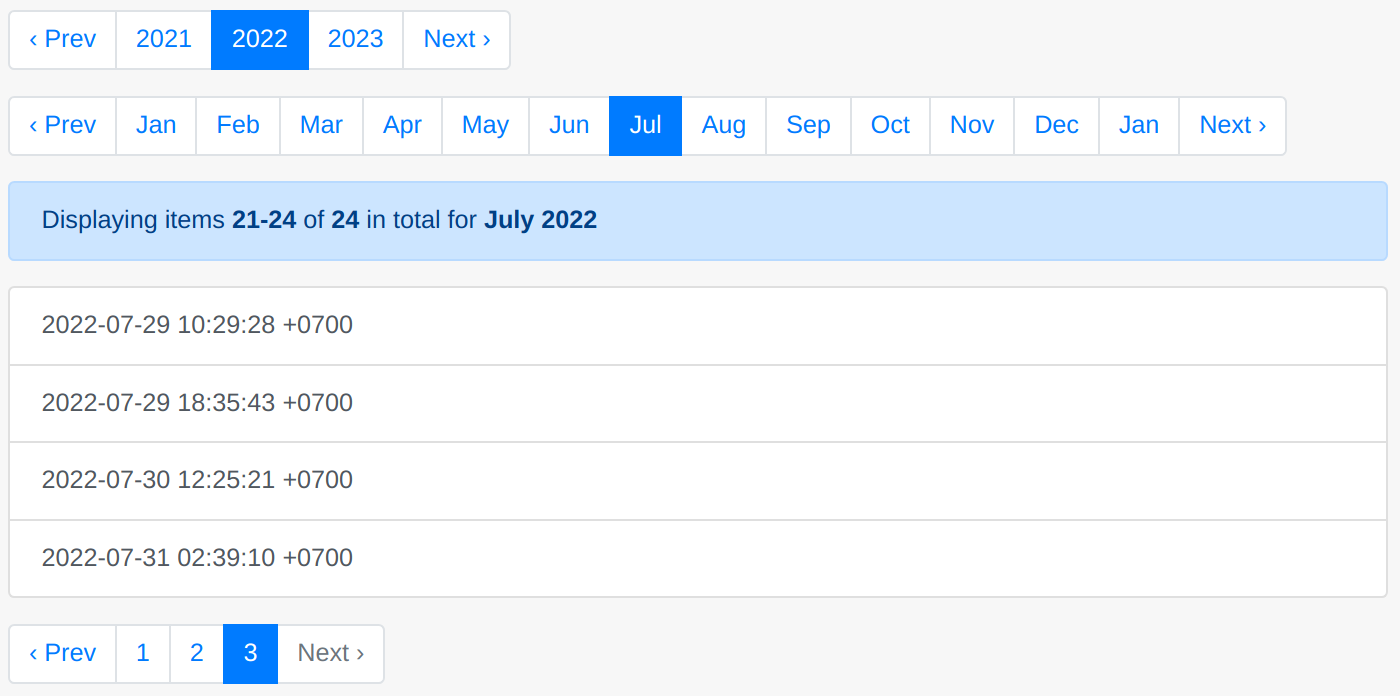
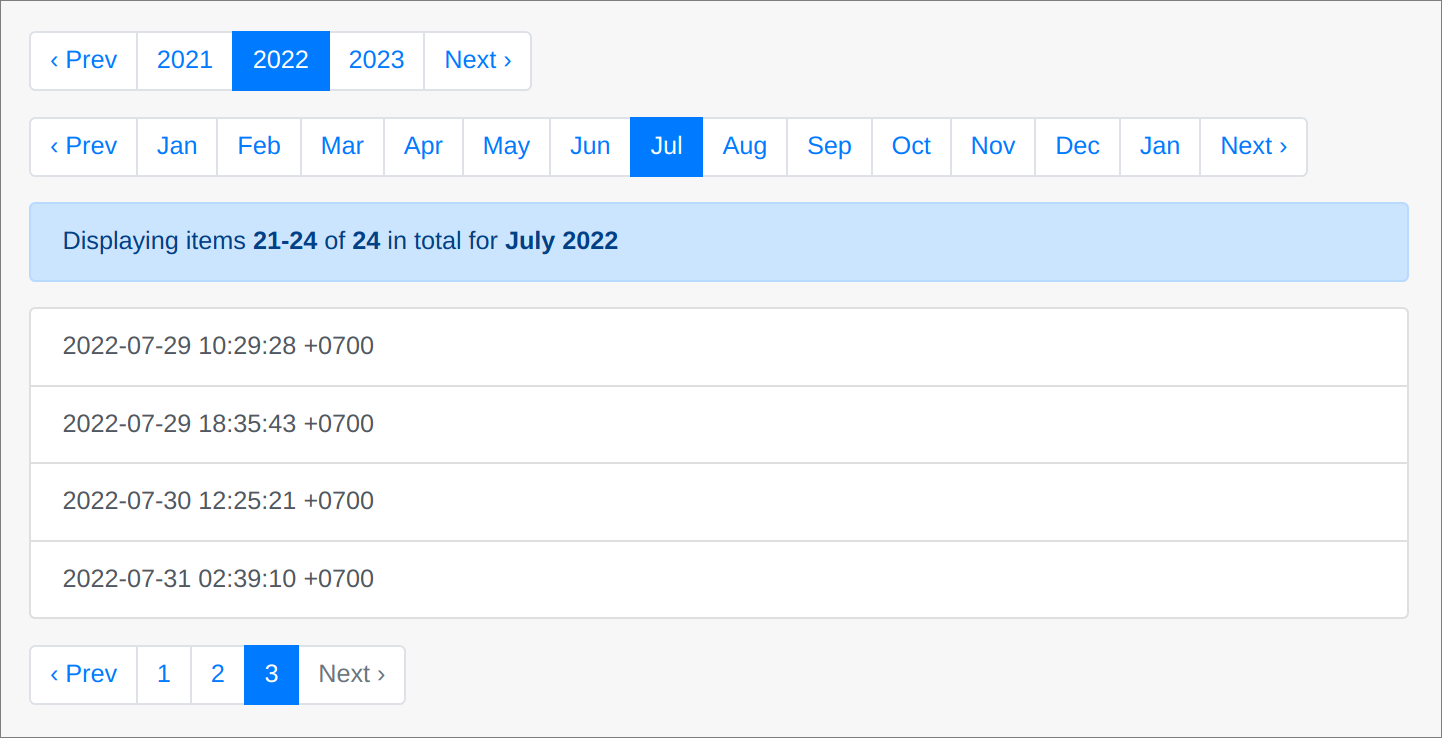
Add faster script to mask screeshots and style adjustments

diff --git a/docs/_includes/head.html b/docs/_includes/head.html
@@ -63,3 +63,23 @@
     'Pagy AI uses the latest data in the documentation to answer your questions.'
   );
 </script>
+<style>
+  .raised {
+    padding: .5em !important;
+    margin: .5em auto;
+    display: table;
+    width: fit-content;
+    box-shadow: 5px 5px 10px 0px rgba(0,0,0,0.2);
+    border: 1px solid rgba(200, 200, 200, 0.1);
+    background-color: rgba(200, 200, 200, 0.04);
+  }
+  .raised hr {
+    margin: .5em;
+  }
+  .raised p, .raised figcaption.caption {
+    display: none !important;
+  }
+  .raised figure.content-center {
+    margin-bottom: 0 !important;
+  }
+</style>

diff --git a/docs/resources/stylesheet.md b/docs/resources/stylesheet.md
@@ -7,13 +7,13 @@ image: ""
 
 # 
 
-## Stylesheet
+## Pagy Stylesheet
 
 ---
 
-![Pagy Style](../assets/images/pagy-style.png){width=300}
-
-## Overview
+![](../assets/images/series_nav.png){width=288}
+![](../assets/images/input_nav_js.png){width=204}
+![](../assets/images/limit_tag_js.png){width=202}
 
 Pagy includes a few stylesheet files that you can download, link, or copy, and integrate with your app.
 
@@ -22,7 +22,7 @@ Pagy includes a few stylesheet files that you can download, link, or copy, and i
 You don't need any stylesheets if you use nav tag with `:bootstrap` or `:bulma` styles.
 !!!
 
-### HTML Structure of Nav Bars
+#### HTML Structure of Nav Bars
 
 To ensure a minimalistic valid output, complete with all the ARIA attributes, pagy outputs a single line with the minimum number of tags
 and class attributes required to identify all the parts of the nav bars:
@@ -39,6 +39,8 @@ and class attributes required to identify all the parts of the nav bars:
 - You can target the previous and next links by using `pagy a:first-child` and `pagy a:last-child` pseudo classes
 
 !!!
+
+#### Files
 
 !!!success
 

diff --git a/docs/toolbox/methods/series_nav_js.md b/docs/toolbox/methods/series_nav_js.md
@@ -15,17 +15,25 @@ categories:
 
 ---
 
-![](../../assets/images/series_nav_js-7.png){width=288}
-![](../../assets/images/series_nav_js-9.png){width=358}
+:::raised
 ![](../../assets/images/series_nav_js-11.png){width=428}
+:::
+
+:::raised
+![](../../assets/images/series_nav_js-9.png){width=358}
+:::
+
+:::raised
+![](../../assets/images/series_nav_js-7.png){width=288}
+:::
+<br/>
 
 [!button corners="pill" variant="success" text=":icon-play: Try it now!"](../../sandbox/playground#3-demo-app)
 
 `series_nav_js` functions similarly to a [series_nav](series_nav.md), with the following added features:
 
-1. Enables client-side rendering.
-2. Optional responsiveness: dynamically fills the container width.
-3. Improves performance and optimizes resource usage (see [Maximizing Performance](../../guides/how-to#maximize-performance)).
+1. Optional responsiveness: Dynamically fills the container width.
+2. Improves performance and optimizes resource usage (see [Maximizing Performance](../../guides/how-to#maximize-performance)).
 
 !!!warning It works with all paginators but `:keyset`
 !!!

diff --git a/README.md b/README.md
@@ -20,6 +20,10 @@ _Agnostic pagination in plain ruby_
 
 <!-- whats_new_start -->
 
+<a href="https://ddnexus.github.io/pagy/sandbox/playground/#3-demo-app">
+  <img src="https://github.com/ddnexus/pagy/raw/dev/assets/images/try-it.svg" width="130">
+</a><br/>
+
 ### <span style="font-size: .65em; vertical-align: middle">💚</span> Version 10
 
 #### A complete redesign of the legacy code.
@@ -124,7 +128,7 @@ Combines `time-range` and `offset` pagination.
 
 _(Available time units: year, quarter, month, week, and day)_
 
-<img src="assets/images/calendar-app.png" width="700"><br/>
+<img src="assets/images/calendar-app.png" width="721"><br/>
 
 ```ruby
 @calendar, @pagy, @records = pagy(:calendar, collection, year: {}, month: {}, offset: {})

diff --git a/docs/resources/javascript.md b/docs/resources/javascript.md
@@ -11,7 +11,7 @@ image: ""
 
 ---
 
-!!!warning The helpers and paginators named `*_js` require Pagy JavaScript support.
+!!!warning The helpers and paginators named `*_js` require JavaScript support.
 
 Simply add the appropriate file(s) and statements as outlined below.
 !!!
@@ -42,7 +42,7 @@ Depending on your app's architecture, you have a couple of options:
   ```
 - **Load it like any other JavaScript file or module you already use in your app**
 
-#### 3. Set up the `Pagy.init` Listener
+#### 3. Set up the `Pagy.init` listener
 
 The primary purpose of the JavaScript support is to utilize `Pagy.init` as an event listener attached to a suitable `window` event:
 

diff --git a/docs/toolbox/paginators/calendar.md b/docs/toolbox/paginators/calendar.md
@@ -20,7 +20,7 @@ The `:calendar` paginator combines the functionality of `time-range` and `OFFSET
 
 It enables cascade-filtering of the collection by time units _(year, quarter, month, week, and day)_, followed by paginating the filtered collection using the `:offset` paginator.
 
-![calendar_app](/assets/images/calendar-app.png)
+![calendar_app](/assets/images/calendar-app.png){with=721}
 
 [!button corners="pill" variant="success" text=":icon-play: Try it now!"](../../sandbox/playground#4-calendar-app)
 

diff --git a/docs/toolbox/methods/input_nav_js.md b/docs/toolbox/methods/input_nav_js.md
@@ -14,12 +14,18 @@ categories:
 ## :icon-code: input_nav_js
 
 ---
-
+ 
+:::raised
 ![input_nav_js](../../assets/images/input_nav_js.png){width=204}
+
+---
 
 ![input_nav_js(:bootstrap)](../../assets/images/input_nav_js-bootstrap.png){width=178}
 
+---
+
 ![input_nav_js(:bulma)](../../assets/images/input_nav_js-bulma.png){width=201}
+:::
 
 [!button corners="pill" variant="success" text=":icon-play: Try it now!"](../../sandbox/playground#3-demo-app)
 

diff --git a/docs/toolbox/methods/series_nav.md b/docs/toolbox/methods/series_nav.md
@@ -15,11 +15,18 @@ categories:
 
 ---
 
+:::raised
 ![series_nav](../../assets/images/series_nav.png){width=288}
+
+---
 
 ![series_nav(:bootstrap)](../../assets/images/series_nav-bootstrap.png){width=248}
 
+---
+
 ![series_nav(:bulma)](../../assets/images/series_nav-bulma.png){width=304}
+:::
+<br/>
 
 [!button corners="pill" variant="success" text=":icon-play: Try it now!"](../../sandbox/playground#3-demo-app)
 

diff --git a/docs/toolbox/methods/anchor_tags.md b/docs/toolbox/methods/anchor_tags.md
@@ -14,7 +14,10 @@ categories:
 
 ---
 
-![previous_tag & next_tag](../../assets/images/anchor_tags.png){width=73}
+:::raised
+![](../../assets/images/anchor_tags.png){width=73}
+:::
+<br/>
 
 [!button corners="pill" variant="success" text=":icon-play: Try it now!"](../../sandbox/playground#3-demo-app)
 

diff --git a/docs/toolbox/methods/limit_tag_js.md b/docs/toolbox/methods/limit_tag_js.md
@@ -14,7 +14,10 @@ categories:
 
 ---
 
-![limit_tag_js](../../assets/images/limit_tag_js.png){width=202}
+:::raised
+![](../../assets/images/limit_tag_js.png){width=202}
+:::
+<br/>
 
 [!button corners="pill" variant="success" text=":icon-play: Try it now!"](../../sandbox/playground#3-demo-app)
 

diff --git a/docs/toolbox/methods/info_tag.md b/docs/toolbox/methods/info_tag.md
@@ -14,7 +14,10 @@ categories:
 
 ---
 
-![info_tag](../../assets/images/info_tag.png){width=311}
+:::raised
+![](../../assets/images/info_tag.png){width=311}
+:::
+<br>
 
 `info_tag` provides information about the content of the current pagination.
 
